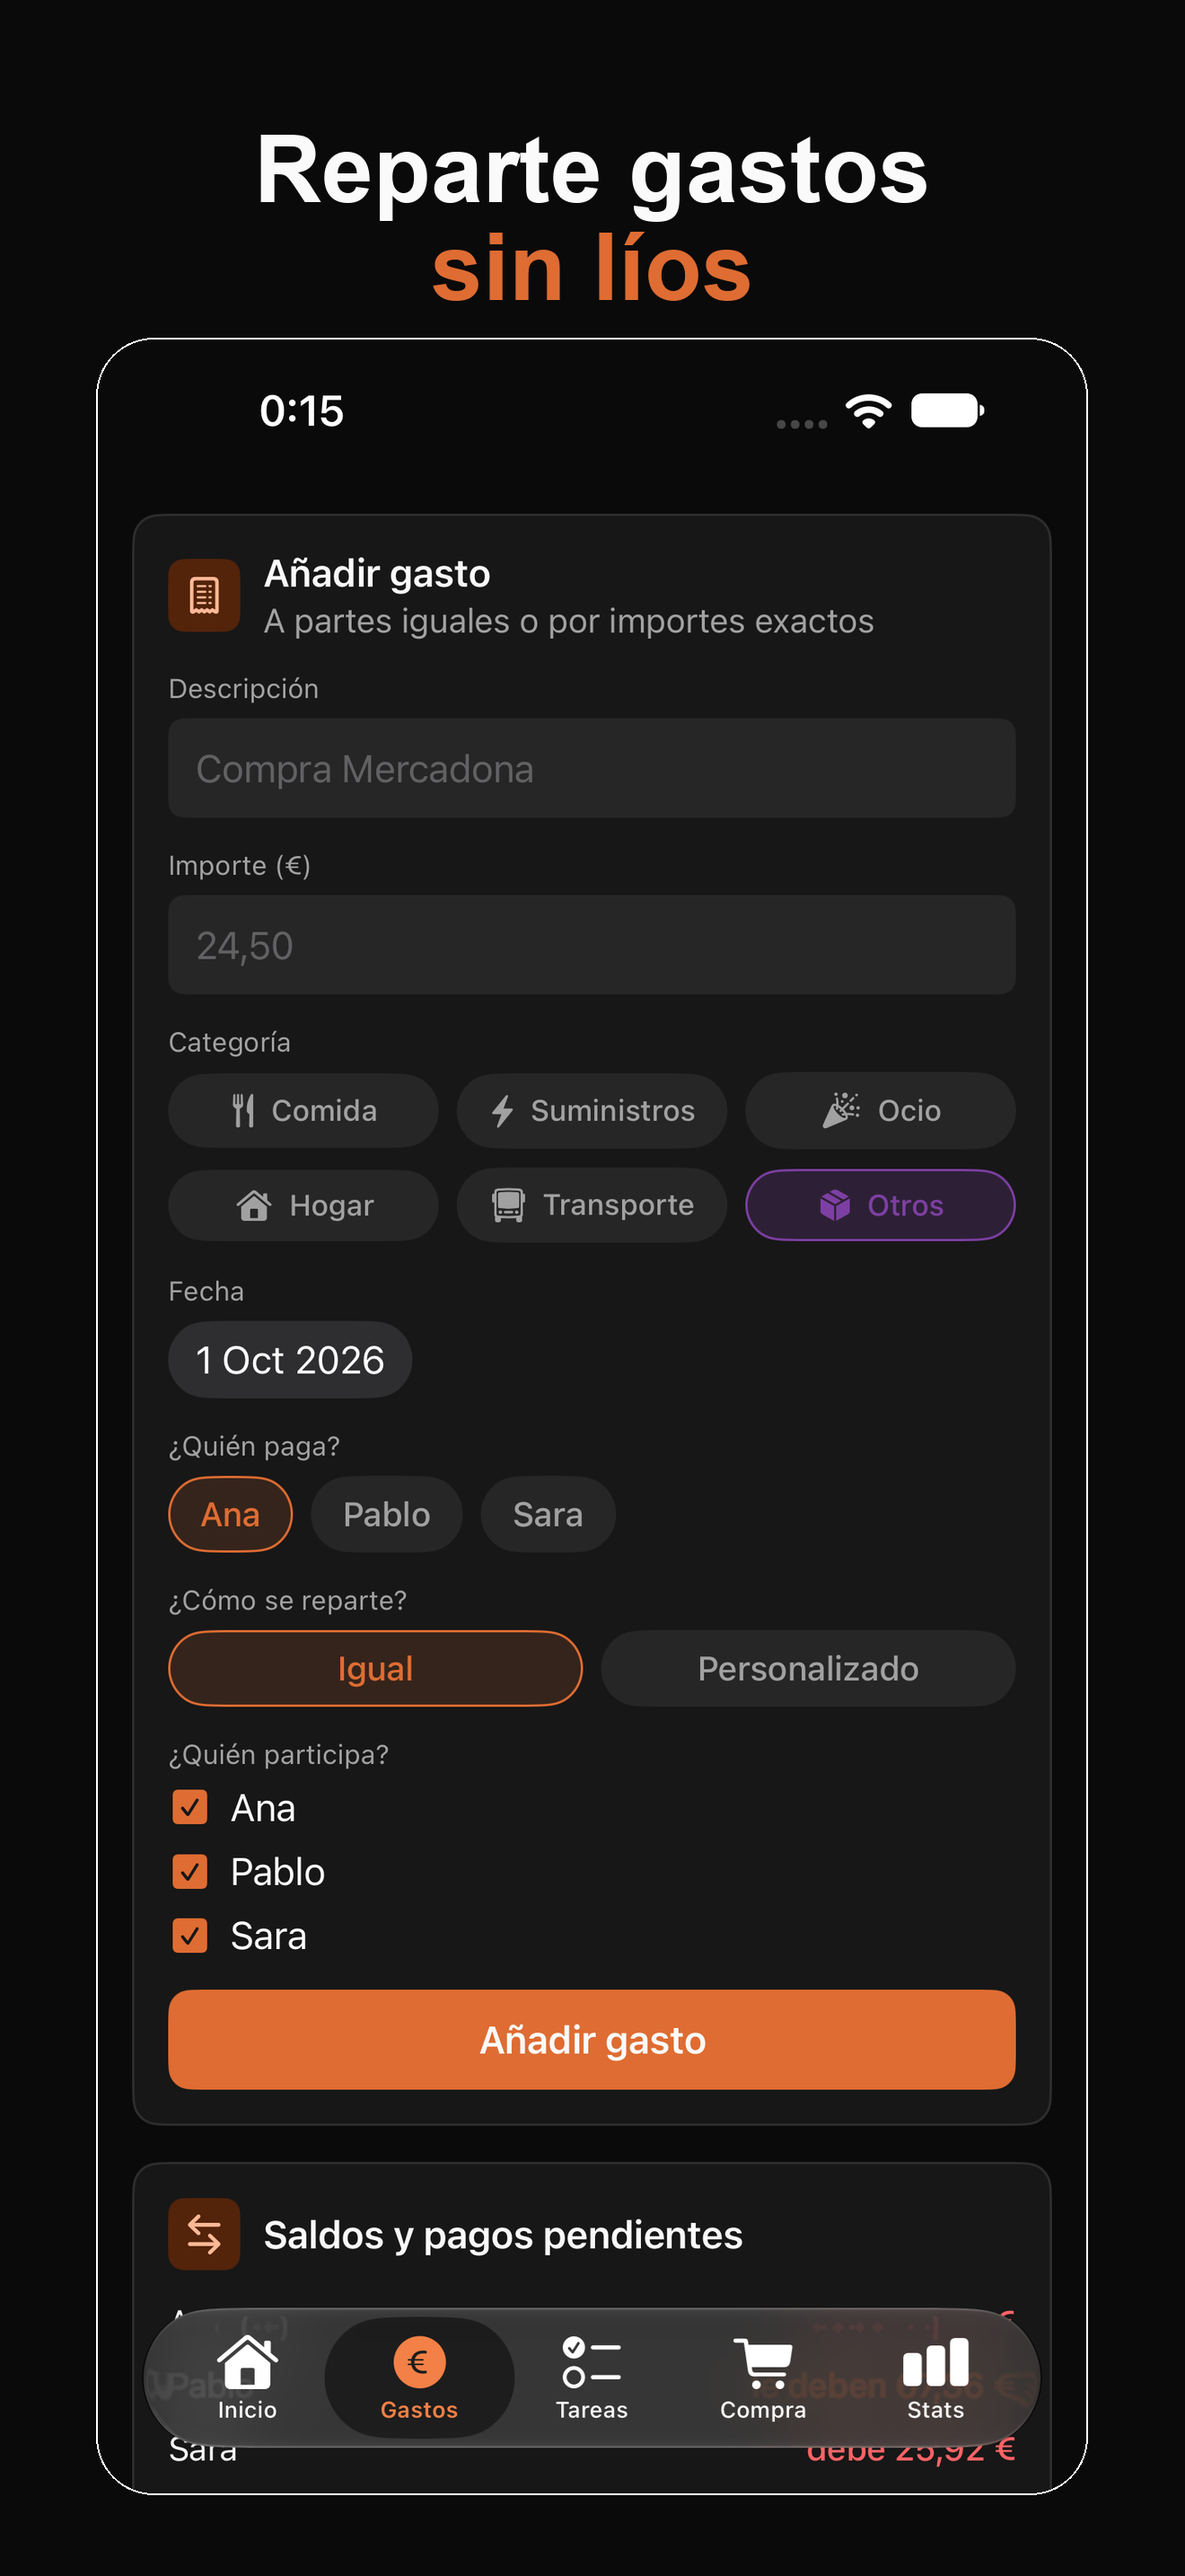
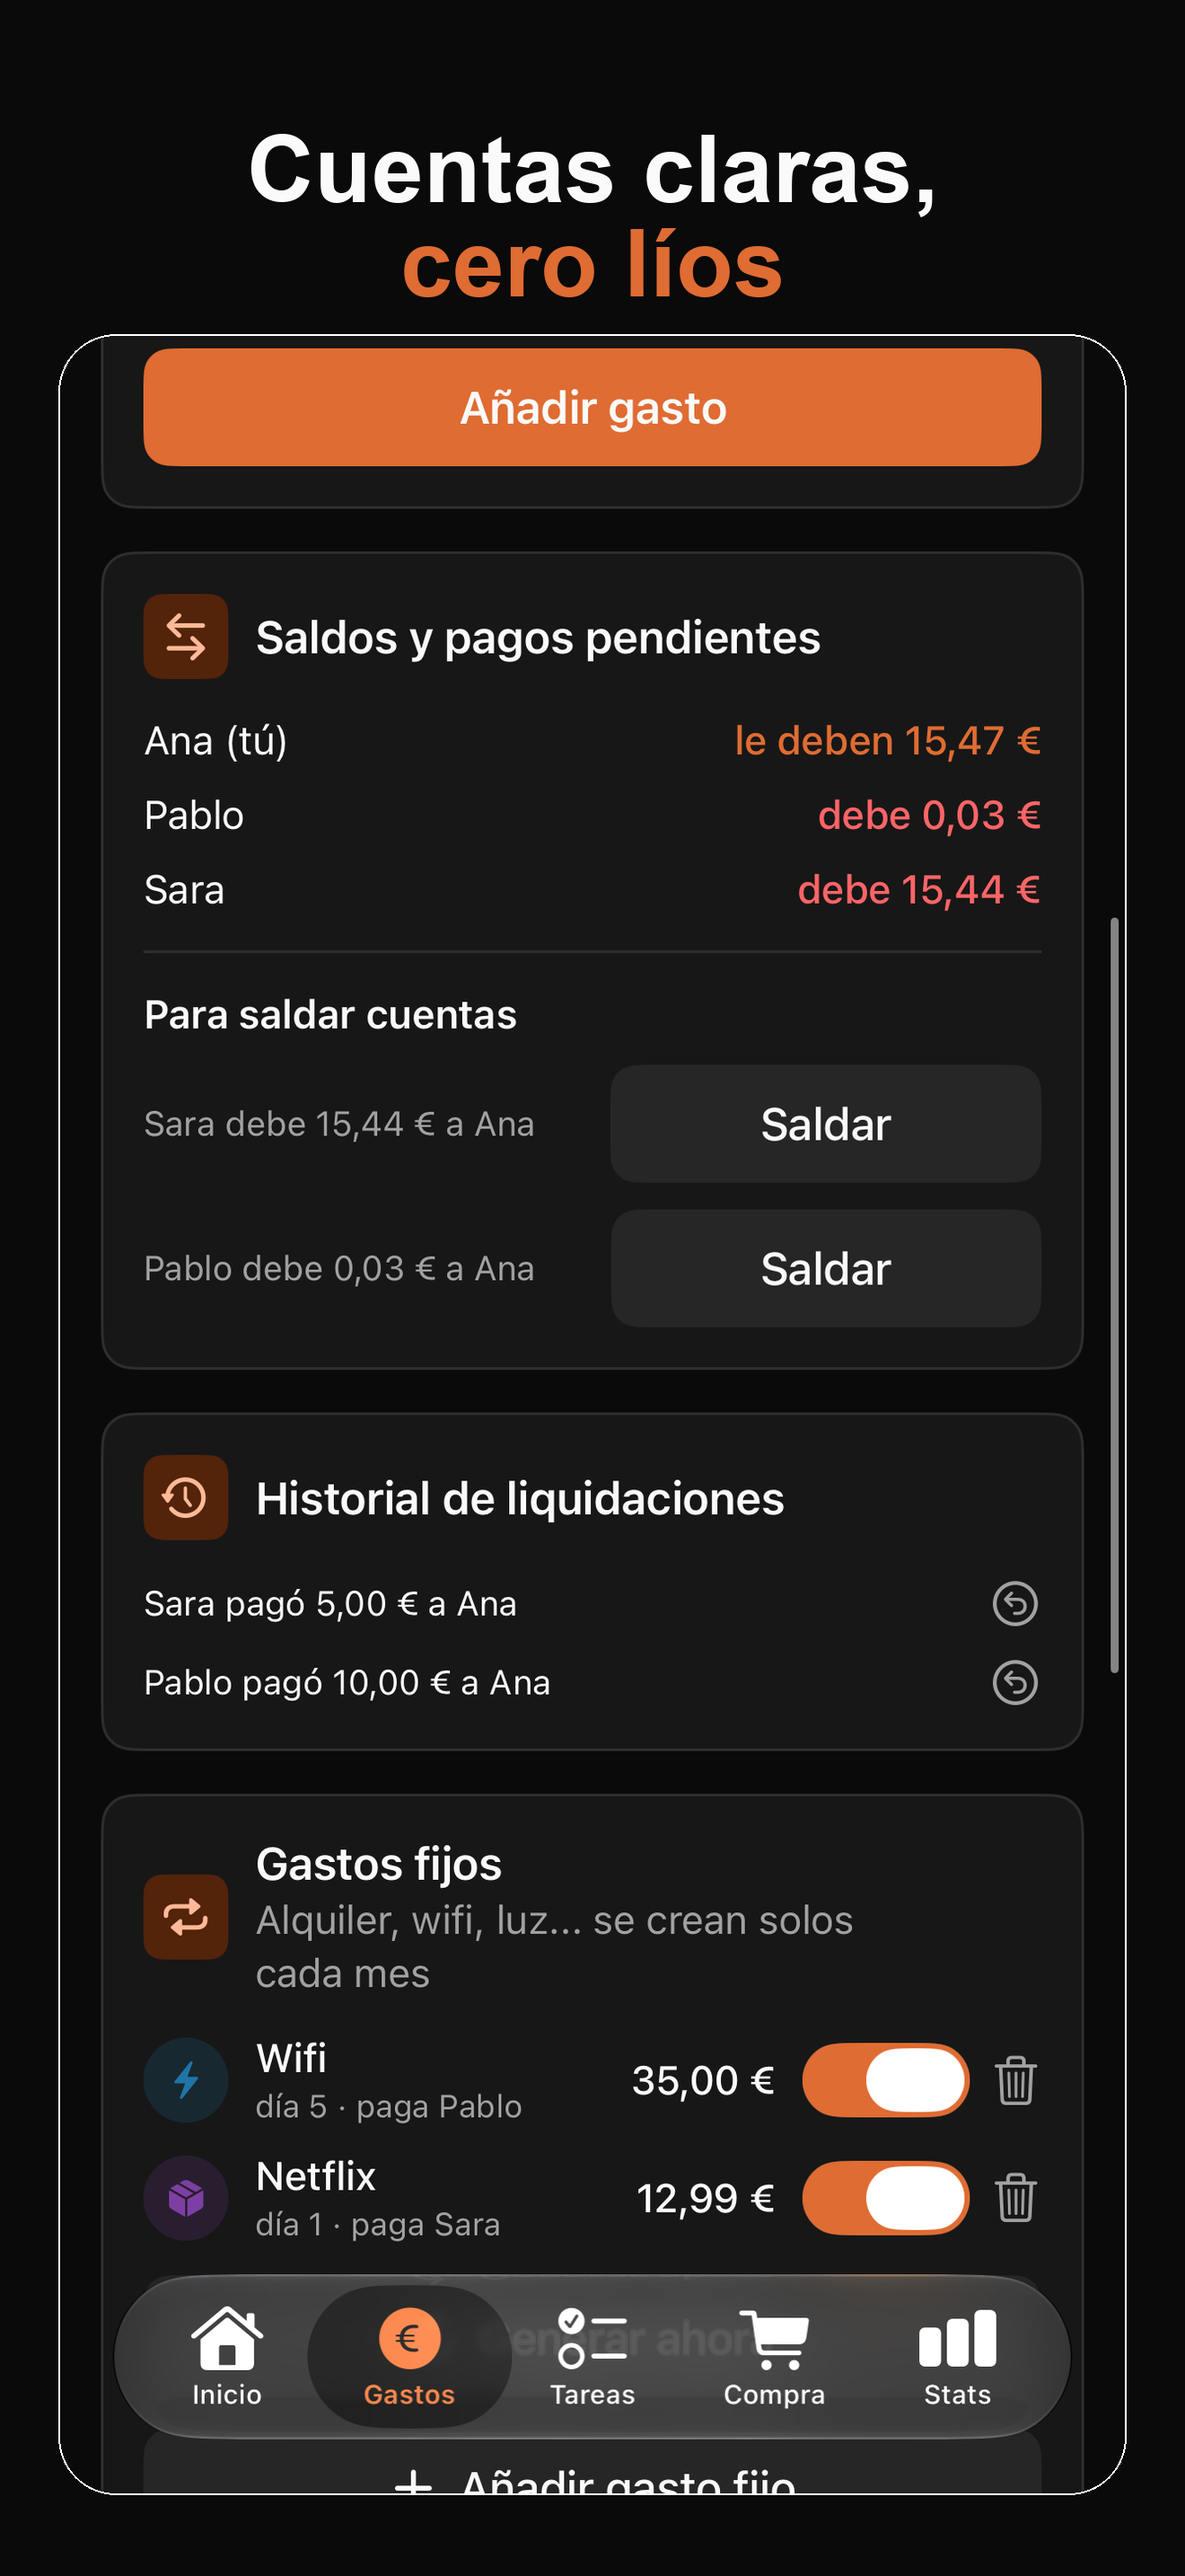
Regenerar capturas de App Store con datos de demo más ricos
Las capturas anteriores mostraban la demo prácticamente vacía (quedó
así de pruebas sueltas): balance en rojo, "Compra pendiente: 0",
"Todavía no hay datos" en Stats, lista de la compra vacía. Nada de eso
vende la app.

- supabase/migrations/0012_demo_seed.sql: datos de demo ampliados —
  9 gastos en las 6 categorías repartidos en 3 meses (para que el
  gráfico de 6 meses y "este mes" tengan contenido real), 2 gastos
  fijos, 3 tareas con rotación y alguna completada hoy, 8 artículos de
  compra (compartidos + personales, marcados y sin marcar), y
  liquidaciones ya hechas para que el balance de Ana (con quien entra
  siempre la demo) quede en positivo en vez de negativo. Reejecutado
  contra el proyecto de Supabase vinculado — borra y recrea solo el
  "Piso Demo" (invite_code DEMO01), aislado de cualquier piso real.
- ScreenshotTourUITests.swift: ahora hace scroll más allá del
  formulario de "Añadir" en Gastos/Tareas antes de capturar, para que
  la captura muestre los saldos/calendario reales en vez de un
  formulario vacío.
- compose_aso.py: titulares más directos ("Tu piso, bajo control",
  "Cuentas claras, cero líos", "Turnos justos, sin pelear", etc.)
- Las 5 capturas finales (1320×2868, tamaño iPhone 6,9") recapturadas
  con xcodebuild test + xcresulttool (sin GUI, vía XCUITest) y
  recompuestas con el script.

diff --git a/ios-native/AppUITests/ScreenshotTourUITests.swift b/ios-native/AppUITests/ScreenshotTourUITests.swift
@@ -34,6 +34,17 @@ final class ScreenshotTourUITests: XCTestCase {
             guard button.waitForExistence(timeout: 10) else { continue }
             button.tap()
             Thread.sleep(forTimeInterval: 1.5) // let async data load settle
+
+            // Gastos/Tareas open on their "add" form — scroll past it so the
+            // screenshot shows the actual balances/task list instead of an
+            // empty-looking form (this is what App Store screenshots use).
+            if tab == "Gastos" {
+                app.swipeUp()
+                Thread.sleep(forTimeInterval: 0.3)
+            } else if tab == "Tareas" {
+                app.swipeUp()
+                Thread.sleep(forTimeInterval: 0.3)
+            }
             shot(app, "tab-\(tab.lowercased())")
 
             if tab == "Tareas" {

diff --git a/docs/app-store-screenshots/compose_aso.py b/docs/app-store-screenshots/compose_aso.py
@@ -71,11 +71,11 @@ def compose(screenshot_path, line1, line2, out_path, font_size=104):
 
 if __name__ == "__main__":
     jobs = [
-        ("tab-inicio.png", "Cuentas claras", "entre compañeros", "01-inicio.png"),
-        ("tab-gastos.png", "Reparte gastos", "sin líos", "02-gastos.png"),
-        ("tareas-calendario.png", "Turnos de limpieza", "automáticos", "03-tareas.png"),
-        ("tab-compra.png", "La compra,", "siempre al día", "04-compra.png"),
-        ("tab-stats.png", "Estadísticas claras", "de cada mes", "05-stats.png"),
+        ("tab-inicio.png", "Tu piso,", "bajo control", "01-inicio.png"),
+        ("tab-gastos.png", "Cuentas claras,", "cero líos", "02-gastos.png"),
+        ("tareas-calendario.png", "Turnos justos,", "sin pelear", "03-tareas.png"),
+        ("tab-compra.png", "La compra,", "siempre lista", "04-compra.png"),
+        ("tab-stats.png", "Vuestro progreso,", "mes a mes", "05-stats.png"),
     ]
     src_dir = sys.argv[1] if len(sys.argv) > 1 else "."
     out_dir = sys.argv[2] if len(sys.argv) > 2 else "."
